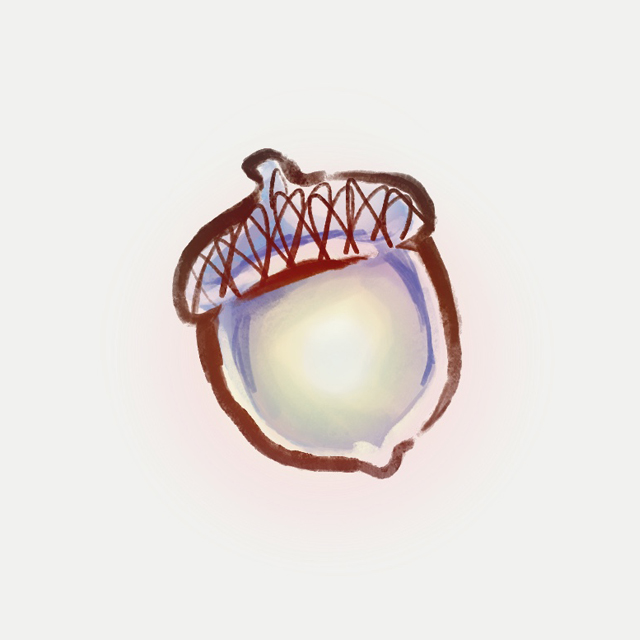
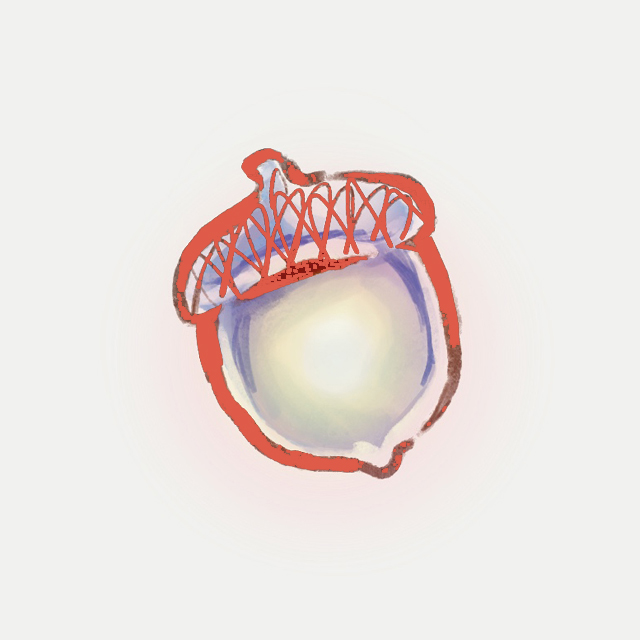
temp

Changed region(s): [[0.25, 0.2188, 0.7188, 0.75], [0.625, 0.6875, 0.6562, 0.7188], [0.5938, 0.7188, 0.625, 0.75]]

diff --git a/_sass/minimal-mistakes/skins/_mint.scss b/_sass/minimal-mistakes/skins/_mint.scss
@@ -3,13 +3,13 @@
    ========================================================================== */
 
 /* Colors */
-$background-color: #eaefe1 !default;
+$background-color: #edece1 !default;
 $text-color: #505143 !default;
 $muted-text-color: #505143 !default;
-$primary-color: #6b777c !default;
+$primary-color: #df5b49 !default;
 $border-color: mix(#fff, #505143, 75%) !default;
-$footer-background-color: #817492 !default;
-$link-color: #6b777c !default;
+$footer-background-color: #ced8ab !default;
+$link-color: #df5b49 !default;
 $masthead-link-color: $text-color !default;
 $masthead-link-color-hover: $text-color !default;
 $navicon-link-color-hover: mix(#fff, $text-color, 80%) !default;
